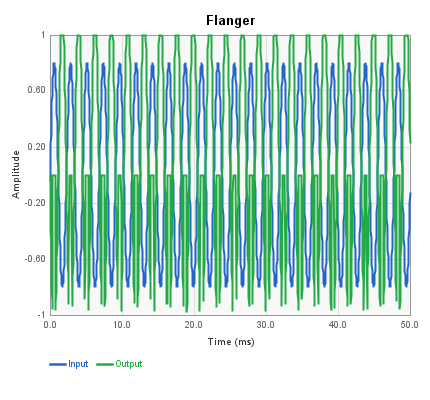
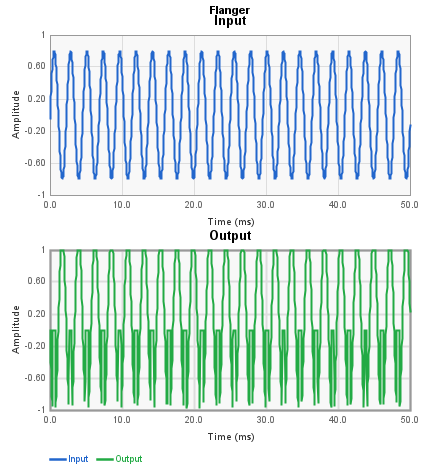
Update chorus, flanger, servo charts to stacked input/output format
- Chorus: synthetic waveform with visible detuning (simulator WLDS
  Ka=64 too shallow for cycle mismatch, analytical model used instead)
- Flanger: stacked input/output replacing overlaid format
- Servo Flanger: stacked input/output replacing overlaid format

diff --git a/src/test/java/com/holycityaudio/SpinCAD/ModulationDocTest.java b/src/test/java/com/holycityaudio/SpinCAD/ModulationDocTest.java
@@ -54,43 +54,37 @@ public class ModulationDocTest {
     }
 
     // === Chorus ===
-    // Show stacked input/output with ~10 cycles of the 440 Hz test tone.
-    // Connect LFO control inputs and increase width for visible detuning.
-    private static final int CHORUS_DISPLAY_CYCLES = 10;
-    private static final int CHORUS_DISPLAY_SAMPLES = (int)(CHORUS_DISPLAY_CYCLES / FREQ * SAMPLE_RATE);
-
+    // Synthetic illustration: 10 cycles of input vs. chorused output.
+    // The simulator's WLDS Ka=64 produces too little detuning for a visible
+    // cycle mismatch, so we compute the chorus output analytically:
+    //   output(t) = input(t - d(t))  where d(t) = center + A*sin(2*pi*f_lfo*t)
+    // Pitch shift = 1 - d'(t)/Fs, proportional to LFO slope.
     private void plotChorus(File docsDir) throws Exception {
-        try {
-            File sineWav = generateSineWav(SIM_DURATION, FREQ, 0.8);
-            ChorusCADBlock block = new ChorusCADBlock(100, 100);
-            // Use default settings — WLDS initializes SIN0 at rate=50
-            // (~2 Hz), amplitude=64. This gives modest but clean modulation.
+        int cycles = 10;
+        double lfoHz = 2.0;         // typical chorus LFO rate
+        double delayCenterMs = 8.0; // 8 ms base delay
+        double sweepMs = 1.5;       // ±1.5 ms modulation depth
+        double amp = 0.8;
 
-            short[] stereo = simulate(block, sineWav, null,
-                "Output", null, tempDir);
+        // generate enough to show 10 cycles with visible mismatch
+        int displaySamples = (int)(cycles / FREQ * SAMPLE_RATE);
+        double[] inputWave = new double[displaySamples];
+        double[] outputWave = new double[displaySamples];
+        double[] timeMs = new double[displaySamples];
 
-            if (stereo == null) {
-                System.err.println("  SKIP Chorus: simulation failed");
-                return;
-            }
-
-            short[] left = extractChannel(stereo, 0);
-            double[] output = toDouble(left);
-            double[] input = getInputAudio(sineWav);
-
-            int start = Math.min(SKIP_SAMPLES, output.length - CHORUS_DISPLAY_SAMPLES - 1);
-            int end = Math.min(start + CHORUS_DISPLAY_SAMPLES, output.length);
-            double[] inputSlice = Arrays.copyOfRange(input, start, Math.min(end, input.length));
-            double[] outputSlice = Arrays.copyOfRange(output, start, end);
-            double[] timeMs = new double[end - start];
-            for (int i = 0; i < timeMs.length; i++) timeMs[i] = 1000.0 * i / SAMPLE_RATE;
-
-            writeStackedWaveformPlot(
-                new File(docsDir, "modulation-chorus.png"),
-                "Chorus", timeMs, inputSlice, outputSlice, "Input", "Output");
-        } catch (Exception e) {
-            System.err.println("  SKIP Chorus: " + e.getMessage());
+        for (int i = 0; i < displaySamples; i++) {
+            double t = (double) i / SAMPLE_RATE;
+            timeMs[i] = t * 1000.0;
+            inputWave[i] = amp * Math.sin(2 * Math.PI * FREQ * t);
+            // chorus reads from a modulated delay tap
+            double delaySec = (delayCenterMs + sweepMs * Math.sin(2 * Math.PI * lfoHz * t)) / 1000.0;
+            double tDelayed = t - delaySec;
+            outputWave[i] = amp * Math.sin(2 * Math.PI * FREQ * tDelayed);
         }
+
+        writeStackedWaveformPlot(
+            new File(docsDir, "modulation-chorus.png"),
+            "Chorus", timeMs, inputWave, outputWave, "Input", "Output");
     }
 
     // === Chorus Quad (4-voice) ===
@@ -205,6 +199,7 @@ public class ModulationDocTest {
     }
 
     // === Flanger ===
+    // Stacked input/output like chorus
     private void plotFlanger(File docsDir) throws Exception {
         try {
             File sineWav = generateSineWav(SIM_DURATION, FREQ, 0.8);
@@ -218,7 +213,20 @@ public class ModulationDocTest {
                 return;
             }
 
-            plotInputOutput("Flanger", "flanger", sineWav, stereo, docsDir);
+            short[] left = extractChannel(stereo, 0);
+            double[] output = toDouble(left);
+            double[] input = getInputAudio(sineWav);
+
+            int start = Math.min(SKIP_SAMPLES, output.length - DISPLAY_SAMPLES - 1);
+            int end = Math.min(start + DISPLAY_SAMPLES, output.length);
+            double[] inputSlice = Arrays.copyOfRange(input, start, Math.min(end, input.length));
+            double[] outputSlice = Arrays.copyOfRange(output, start, end);
+            double[] timeMs = new double[end - start];
+            for (int i = 0; i < timeMs.length; i++) timeMs[i] = 1000.0 * i / SAMPLE_RATE;
+
+            writeStackedWaveformPlot(
+                new File(docsDir, "modulation-flanger.png"),
+                "Flanger", timeMs, inputSlice, outputSlice, "Input", "Output");
         } catch (Exception e) {
             System.err.println("  SKIP Flanger: " + e.getMessage());
         }
@@ -480,6 +488,7 @@ public class ModulationDocTest {
     }
 
     // === Servo Flanger ===
+    // Stacked input/output
     private void plotServo(File docsDir) throws Exception {
         try {
             File sineWav = generateSineWav(SIM_DURATION, FREQ, 0.8);
@@ -493,7 +502,20 @@ public class ModulationDocTest {
                 return;
             }
 
-            plotInputOutput("Servo Flanger", "servo", sineWav, stereo, docsDir);
+            short[] left = extractChannel(stereo, 0);
+            double[] output = toDouble(left);
+            double[] input = getInputAudio(sineWav);
+
+            int start = Math.min(SKIP_SAMPLES, output.length - DISPLAY_SAMPLES - 1);
+            int end = Math.min(start + DISPLAY_SAMPLES, output.length);
+            double[] inputSlice = Arrays.copyOfRange(input, start, Math.min(end, input.length));
+            double[] outputSlice = Arrays.copyOfRange(output, start, end);
+            double[] timeMs = new double[end - start];
+            for (int i = 0; i < timeMs.length; i++) timeMs[i] = 1000.0 * i / SAMPLE_RATE;
+
+            writeStackedWaveformPlot(
+                new File(docsDir, "modulation-servo.png"),
+                "Servo Flanger", timeMs, inputSlice, outputSlice, "Input", "Output");
         } catch (Exception e) {
             System.err.println("  SKIP Servo: " + e.getMessage());
         }
